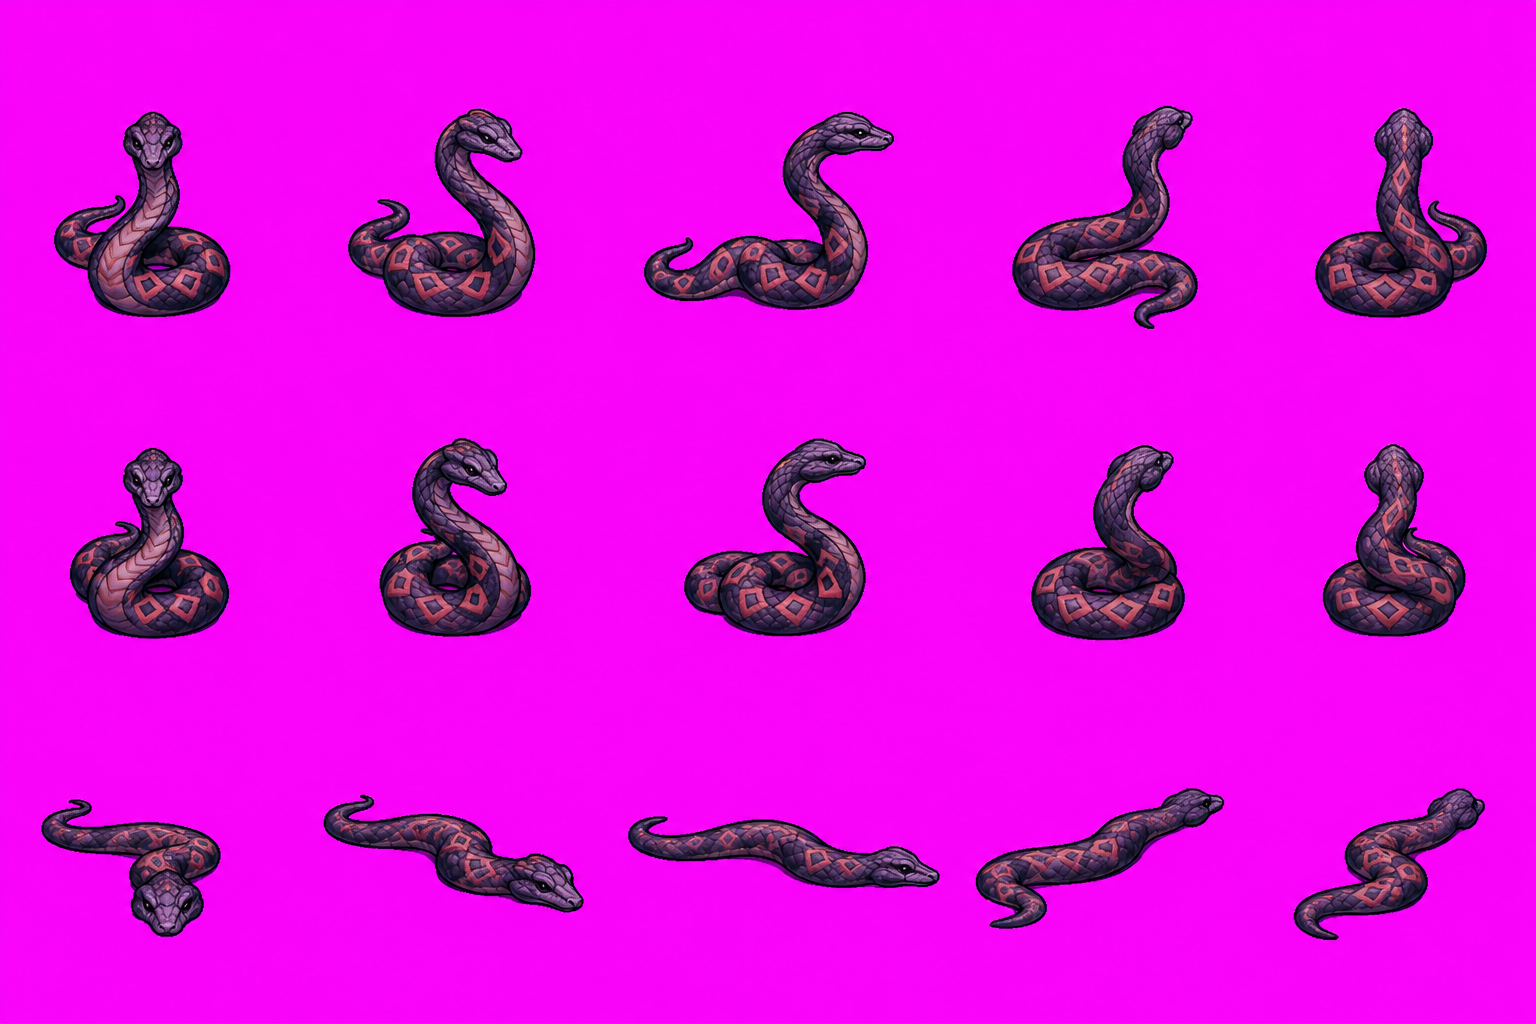
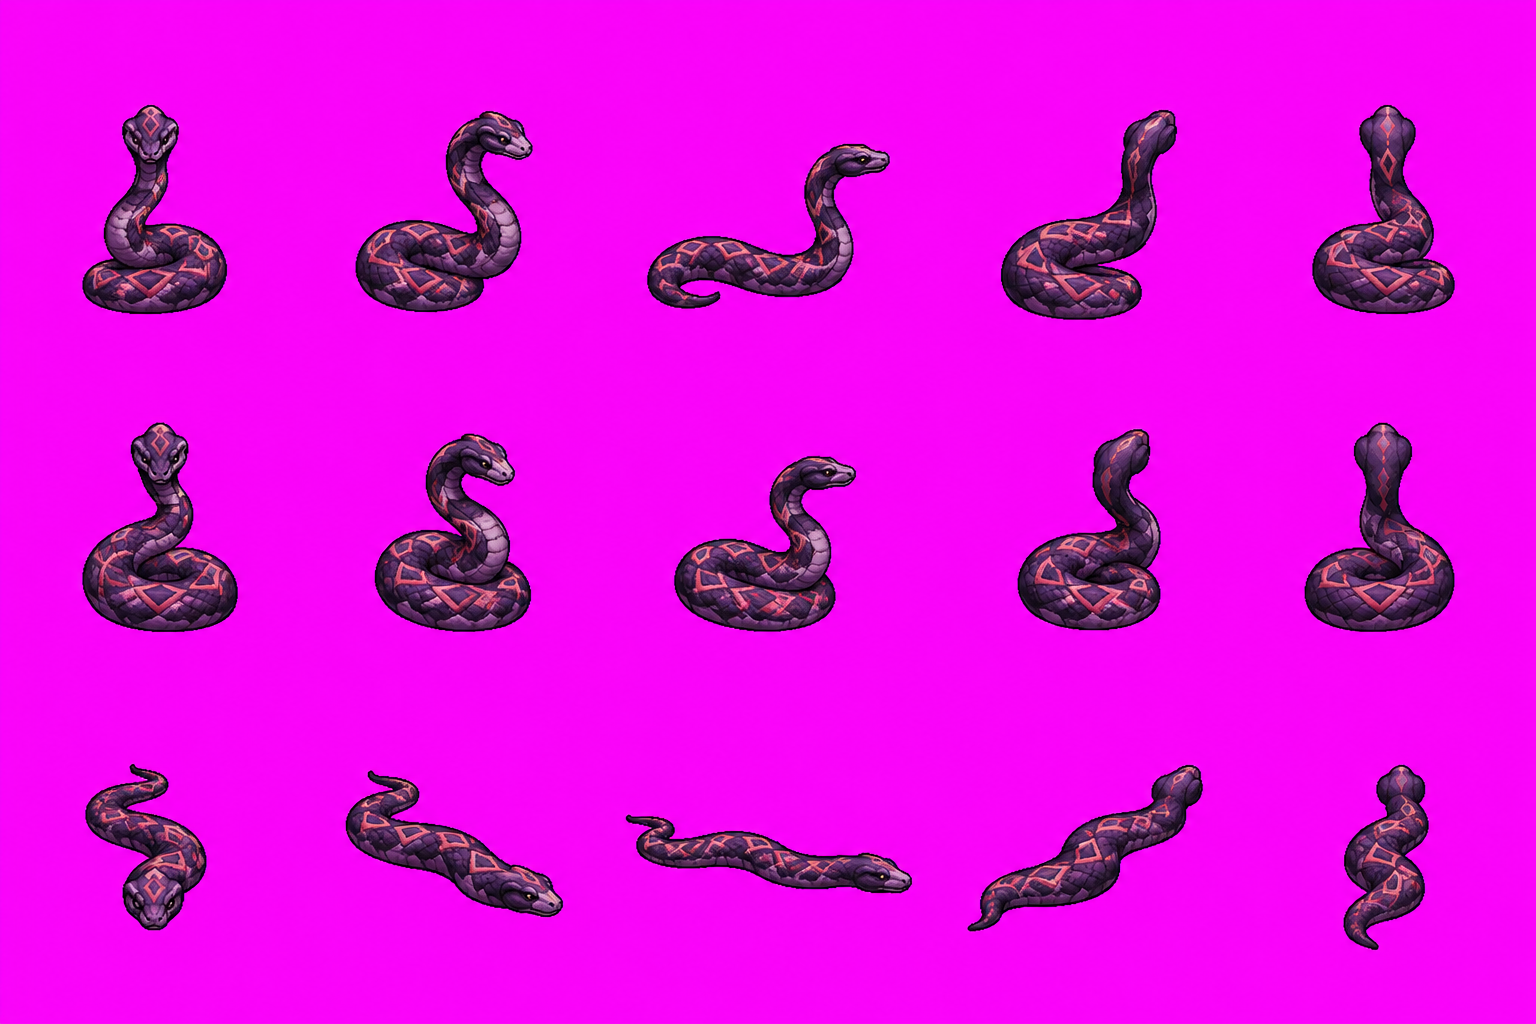
feat(art): bù hướng đông bắc Mạn Đà La Xà

diff --git a/art/src/beast-anim/man_da_la_xa/NGUON.md b/art/src/beast-anim/man_da_la_xa/NGUON.md
@@ -6,9 +6,9 @@ Loài `man_da_la_xa` (Mạn Đà La Xà), họ `snake`, khung game 96×96. Mức
 
 ## turnaround
 
[1 lines of base64/hex data omitted]
-- Công cụ: builtin image_gen.imagegen; model: unknown (công cụ sinh ảnh không công bố); seed: unknown (công cụ sinh ảnh không công bố); số lượt: 1; phiên: soul_land_game-745.
[2 lines of base64/hex data omitted]
+- Công cụ: builtin image_gen.imagegen; model: unknown (công cụ sinh ảnh không công bố); seed: unknown (công cụ sinh ảnh không công bố); số lượt: 2.
[1 lines of base64/hex data omitted]
 - Ảnh gốc giữ nguyên byte; không resize / sửa pixel.
 - Mức kiểm: **pass** (ảnh mẫu 5 hướng, không có khối hướng).
 - Duyệt bằng mắt: đã xem, không thấy lỗi.
@@ -16,53 +16,49 @@ Loài `man_da_la_xa` (Mạn Đà La Xà), họ `snake`, khung game 96×96. Mức
 ## toA
 
[1 lines of base64/hex data omitted]
-- Công cụ: builtin image_gen.imagegen; model: unknown (công cụ sinh ảnh không công bố); seed: unknown (công cụ sinh ảnh không công bố); số lượt: 1; phiên: soul_land_game-745.
+- Công cụ: builtin image_gen.imagegen; model: unknown (công cụ sinh ảnh không công bố); seed: unknown (công cụ sinh ảnh không công bố); số lượt: 1.
[1 lines of base64/hex data omitted]
 - Ảnh gốc giữ nguyên byte; không resize / sửa pixel.
 - Mức kiểm: **nhẹ** (khối hướng: s nhẹ, se pass, e nhẹ).
-- Ghi chú kỹ thuật (cỡ thân, không phải lỗi): H1–4 (s): cỡ thân idle 85% so với ảnh tĩnh (lệch 15%); cutter neo lại, không chặn.
-- Ghi chú kỹ thuật (cỡ thân, không phải lỗi): H9–12 (e): cỡ thân idle 131% so với ảnh tĩnh (lệch 31%, quá 25%); cutter neo lại, không chặn.
+- Ghi chú kỹ thuật (cỡ thân, không phải lỗi): H1–4 (s): cỡ thân idle 83% so với ảnh tĩnh (lệch 17%); cutter neo lại, không chặn.
+- Ghi chú kỹ thuật (cỡ thân, không phải lỗi): H9–12 (e): cỡ thân idle 128% so với ảnh tĩnh (lệch 28%, quá 25%); cutter neo lại, không chặn.
 - Duyệt bằng mắt: 1 mục lỗi (dòng `LỖI:` bên dưới).
 
 ## toB
 
[1 lines of base64/hex data omitted]
-- Công cụ: builtin image_gen.imagegen; model: unknown (công cụ sinh ảnh không công bố); seed: unknown (công cụ sinh ảnh không công bố); số lượt: 1; phiên: soul_land_game-745.
+- Công cụ: builtin image_gen.imagegen; model: unknown (công cụ sinh ảnh không công bố); seed: unknown (công cụ sinh ảnh không công bố); số lượt: 1.
[1 lines of base64/hex data omitted]
 - Ảnh gốc giữ nguyên byte; không resize / sửa pixel.
-- Mức kiểm: **nhẹ** (khối hướng: ne pass, n nhẹ).
-- Ghi chú kỹ thuật (cỡ thân, không phải lỗi): H5–8 (n): cỡ thân idle 89% so với ảnh tĩnh (lệch 11%); cutter neo lại, không chặn.
-- Duyệt bằng mắt: 2 mục lỗi (dòng `LỖI:` bên dưới).
+- Mức kiểm: **nhẹ** (khối hướng: ne nhẹ, n nhẹ).
+- Ghi chú kỹ thuật (cỡ thân, không phải lỗi): H5–8 (n): cỡ thân idle 87% so với ảnh tĩnh (lệch 13%); cutter neo lại, không chặn.
+- Duyệt bằng mắt: 1 mục lỗi (dòng `LỖI:` bên dưới).
+
+## to-ne
+
[1 lines of base64/hex data omitted]
+- Công cụ: builtin image_gen.imagegen; model: unknown (công cụ sinh ảnh không công bố); seed: unknown (công cụ sinh ảnh không công bố); số lượt: 6.
[1 lines of base64/hex data omitted]
+- Ảnh gốc giữ nguyên byte; không resize / sửa pixel.
+- Mức kiểm: **nhẹ** (khối hướng: ne nhẹ).
+- Ghi chú kỹ thuật (cỡ thân, không phải lỗi): H1–4 (ne): cỡ thân idle 210% so với ảnh tĩnh (lệch 110%, quá 25%); cutter neo lại, không chặn.
+- Duyệt bằng mắt: đã xem, không thấy lỗi.
 
 ## to-n
 
[1 lines of base64/hex data omitted]
-- Công cụ: builtin image_gen.imagegen; model: unknown (công cụ sinh ảnh không công bố); seed: unknown (công cụ sinh ảnh không công bố); số lượt: 2; phiên: soul_land_game-745.
+- Công cụ: builtin image_gen.imagegen; model: unknown (công cụ sinh ảnh không công bố); seed: unknown (công cụ sinh ảnh không công bố); số lượt: 2.
[1 lines of base64/hex data omitted]
 - Ảnh gốc giữ nguyên byte; không resize / sửa pixel.
 - Mức kiểm: **nhẹ** (khối hướng: n nhẹ).
-- Ghi chú kỹ thuật (cỡ thân, không phải lỗi): H1–4 (n): cỡ thân idle 171% so với ảnh tĩnh (lệch 71%, quá 25%); cutter neo lại, không chặn.
+- Ghi chú kỹ thuật (cỡ thân, không phải lỗi): H1–4 (n): cỡ thân idle 167% so với ảnh tĩnh (lệch 67%, quá 25%); cutter neo lại, không chặn.
 - Duyệt bằng mắt: đã xem, không thấy lỗi.
-
-## Tờ chưa vào thư mục chính (candidates)
-
-Các tờ dưới đây chưa có `toX.png` ở thư mục chính (bị chặn sau các lượt sinh); chỉ có bản thử ở `candidates/`. Nhãn `toX` là nhãn đúng của tờ.
-
-### to-ne (candidates)
-
[1 lines of base64/hex data omitted]
-- Số lượt đã dùng: 3; lượt được chọn: 3.
-- Mức kiểm: **chặn** (CHẶN: không vào thư mục chính).
-- Duyệt bằng mắt: 1 mục lỗi (dòng `LỖI:` bên dưới).
 
 ## Lỗi
 
 ```text
-LỖI: toA — die nằm ngang — S H4 D3–D4 và SE H8 D3–D4 — lệch trục hướng (mắt)
-LỖI: toB — lộ mặt — NE H1 idle/hurt, H2 walk, H3 attack; N H7 attack — vi phạm quy tắc n/ne không thấy mặt (mắt)
-LỖI: toB — die nằm ngang — NE H4 D0–D3 và N H8 D2–D3 — lệch trục hướng (mắt)
-LỖI: to-ne — hình ở ô trống / hình dính — H4 (ne) C5, H4 (ne) — ô trống có hình (0.39% diện tích ô): hình tràn từ ô bên; dải có 3 hình, cần 4: hình dính nhau.
-LỖI: to-ne — ne — hết 3 lượt; die còn chồng khoảng dò cột; chọn lượt 3, giữ fallback. (mắt)
+LỖI: toA — die nằm ngang — S H4 D3–D4 và SE H8 D3–D4 — lỗi legacy giữ nguyên (mắt)
+LỖI: toB — lộ mặt/die lệch trục — legacy ne/n đã được thay bằng direction (mắt)
 ```
 
 ## Ghi công
@@ -71,4 +67,4 @@ Bảng này `tools/assets/credits.mjs` gom vào màn Ghi công (cùng cột vớ
 
 | File | Key | Công cụ | Mô tả / prompt | Ngày | Ghi chú |
 |---|---|---|---|---|---|
-| `art/src/beast-anim/man_da_la_xa/` | - | ChatGPT / Codex image_gen.imagegen (tthoadev, Q44; hoạt ảnh vẽ thật hồn thú H4) | Mạn Đà La Xà (H4 #773): RAW `art/src/beast-anim/man_da_la_xa/toA.png` (948×1659, A1/1) và `toB.png` (1254×1254, B1/1), tthoadev sinh ngày 2026-10-26 bằng builtin `image_gen.imagegen`, mỗi lượt một call (38,2 giây và 42,8 giây); model/seed unknown. A chỉ dùng static `shared/assets/sprites/beast/man_da_la_xa.png`; B dùng static rồi A1 RAW candidate làm tham chiếu thật, chưa owner art-approved. RAW nguyên byte, không hậu kỳ/cắt/resize. `beast:check` (công cụ hiện tại): không có lỗi chặn; A1 948×1659 hợp lệ (tờ A 0,55–0,70), B1 1254×1254 hợp lệ. Mắt thấy A: S H4 D3–D4 và SE H8 D3–D4 die nằm ngang, lệch trục hướng. B: NE H1 idle/hurt, H2 walk, H3 attack lộ mặt; NE H4 D0–D3 die nằm ngang, lệch trục; N H7 attack lộ mặt; N H8 D2–D3 die nằm ngang, lệch trục. `npm run check` và `npm run build` exit 0; check có 5 cảnh báo sheet trống sẵn có. Prompt thật, SHA-256, reference roles và provenance: `art/src/beast-anim/man_da_la_xa/toA.prompt.txt`, `toB.prompt.txt`, `toA.source.json`, `toB.source.json`. Part of #773 và #766; submission chưa phải artaccepted/imported. | - | Chuyển một lần từ art/CREDITS.md (#973) |
+| `art/src/beast-anim/man_da_la_xa/` | - | builtin image_gen.imagegen | RAW hoạt ảnh Mạn Đà La Xà: turnaround 1536×1024, toA 948×1659, toB 1254×1254, to-ne 1536×1024, to-n 1536×1024; model, seed, prompt thật và hash ở các mục trên | - | Soát bằng mắt trước khi duyệt |
